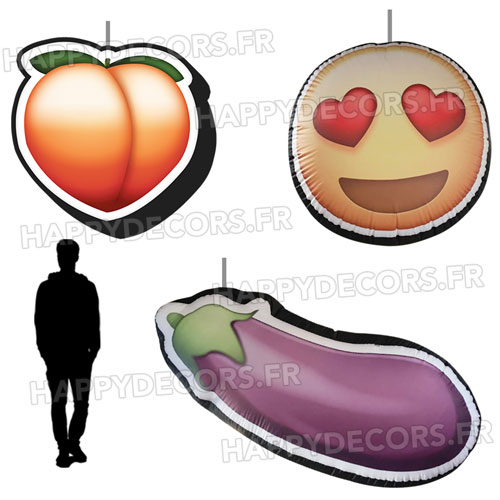
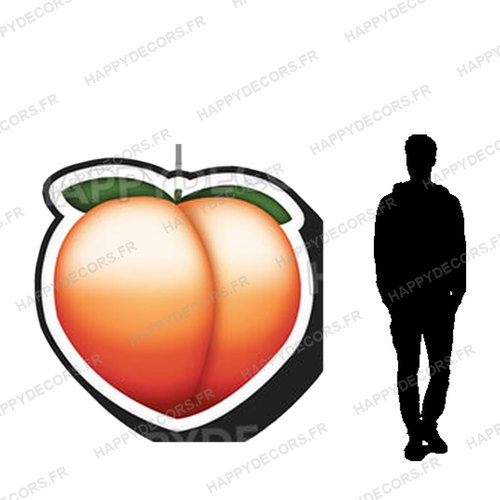
Emojis : une fiche par emoji (pêche ×2, aubergine ×2, yeux-cœur, diable), photos détourées ; univers Emojis

diff --git a/index.html b/index.html
@@ -226,7 +226,7 @@
     <button class="uni-card has-bg" data-u="amour" style="--uc:#FF4D6D; background-image:url('assets/gallery/uni/g02_coeurs.jpg')">
       <span class="uni-emoji">💗</span>
       <span class="uni-name">Mariage &amp; Saint-Valentin</span>
-      <span class="uni-count">22 décors</span>
+      <span class="uni-count">23 décors</span>
     </button>
     <button class="uni-card has-bg" data-u="paques" style="--uc:#8DBF2E; background-image:url('assets/gallery/uni/g19_paques.jpg')">
       <span class="uni-emoji">🐣</span>
@@ -236,17 +236,17 @@
     <button class="uni-card has-bg" data-u="ete" style="--uc:#F2A900; background-image:url('assets/gallery/uni/g10_tropical.jpg')">
       <span class="uni-emoji">🌴</span>
       <span class="uni-name">Été &amp; Tropical</span>
-      <span class="uni-count">31 décors</span>
+      <span class="uni-count">32 décors</span>
     </button>
     <button class="uni-card has-bg" data-u="halloween" style="--uc:#FF7A1A; background-image:url('assets/gallery/uni/g03_araignee.jpg')">
       <span class="uni-emoji">🎃</span>
       <span class="uni-name">Halloween</span>
-      <span class="uni-count">16 décors</span>
+      <span class="uni-count">17 décors</span>
     </button>
     <button class="uni-card has-bg" data-u="enfants" style="--uc:#F97316; background-image:url('assets/gallery/uni/u_enfants.jpg')">
       <span class="uni-emoji">🎈</span>
       <span class="uni-name">Anniversaire enfant</span>
-      <span class="uni-count">37 décors</span>
+      <span class="uni-count">38 décors</span>
     </button>
     <button class="uni-card has-bg" data-u="bebe" style="--uc:#60A5FA; background-image:url('assets/gallery/uni/u_bebe.jpg')">
       <span class="uni-emoji">🍼</span>
@@ -261,7 +261,7 @@
     <button class="uni-card has-bg" data-u="promo" style="--uc:#0F766E; background-image:url('assets/gallery/uni/u_promo.jpg')">
       <span class="uni-emoji">🎓</span>
       <span class="uni-name">Bal de promo &amp; Université</span>
-      <span class="uni-count">19 décors</span>
+      <span class="uni-count">22 décors</span>
     </button>
     <button class="uni-card has-bg" data-u="mer" style="--uc:#0EA5E9; background-image:url('assets/gallery/uni/g16_baleine.jpg')">
       <span class="uni-emoji">🐙</span>
@@ -306,12 +306,12 @@
     <button class="uni-card has-bg" data-u="emojis" style="--uc:#EAB308; background-image:url('assets/gallery/uni/u_emojis.jpg')">
       <span class="uni-emoji">😍</span>
       <span class="uni-name">Emojis géants</span>
-      <span class="uni-count">35 décors</span>
+      <span class="uni-count">38 décors</span>
     </button>
     <button class="uni-card has-bg" data-u="pop" style="--uc:#E11D74; background-image:url('assets/gallery/uni/g22_emojis.jpg')">
       <span class="uni-emoji">🪩</span>
       <span class="uni-name">Pop, Rétro &amp; Disco</span>
-      <span class="uni-count">27 décors</span>
+      <span class="uni-count">30 décors</span>
     </button>
     <button class="uni-card has-bg" data-u="chic" style="--uc:#334155; background-image:url('assets/gallery/uni/g11_noirblanc.jpg')">
       <span class="uni-emoji">🎭</span>
@@ -895,15 +895,48 @@
           <button class="card-add" data-add="DG_090" data-added="false">+ Ajouter à ma demande</button>
         </div>
       </article>
-      <article class="card" style="--cc:#E11D74">
-        <div class="card-img" data-id="DG_060" role="button" tabindex="0" aria-label="Agrandir Emojis">
+      <article class="card" style="--cc:#EAB308">
+        <div class="card-img" data-id="DG_060" role="button" tabindex="0" aria-label="Agrandir Emoji pêche">
           <span class="card-theme">Emojis</span>
-          <img src="assets/decors/DG_060.jpg" alt="Emojis — décor gonflable géant à louer à Paris (Emojis)" loading="lazy" width="500" height="500" />
+          <img src="assets/decors/DG_060.jpg" alt="Emoji pêche — décor gonflable géant à louer à Paris (Emojis)" loading="lazy" width="500" height="500" />
         </div>
         <div class="card-body">
-          <h3 class="card-name">Emojis</h3>
-          <span class="card-qte">5 disponibles</span><span class="card-price ">50€ <small>l'unité · 48h</small></span>
+          <h3 class="card-name">Emoji pêche</h3>
+          <span class="card-qte">2 disponibles</span><span class="card-price ">50€ <small>l'unité · 48h</small></span>
           <button class="card-add" data-add="DG_060" data-added="false">+ Ajouter à ma demande</button>
+        </div>
+      </article>
+      <article class="card" style="--cc:#EAB308">
+        <div class="card-img" data-id="DG_148" role="button" tabindex="0" aria-label="Agrandir Emoji aubergine">
+          <span class="card-theme">Emojis</span>
+          <img src="assets/decors/DG_148.jpg" alt="Emoji aubergine — décor gonflable géant à louer à Paris (Emojis)" loading="lazy" width="500" height="500" />
+        </div>
+        <div class="card-body">
+          <h3 class="card-name">Emoji aubergine</h3>
+          <span class="card-qte">2 disponibles</span><span class="card-price ">50€ <small>l'unité · 48h</small></span>
+          <button class="card-add" data-add="DG_148" data-added="false">+ Ajouter à ma demande</button>
+        </div>
+      </article>
+      <article class="card" style="--cc:#EAB308">
+        <div class="card-img" data-id="DG_149" role="button" tabindex="0" aria-label="Agrandir Emoji yeux-cœur">
+          <span class="card-theme">Emojis</span>
+          <img src="assets/decors/DG_149.jpg" alt="Emoji yeux-cœur — décor gonflable géant à louer à Paris (Emojis)" loading="lazy" width="500" height="500" />
+        </div>
+        <div class="card-body">
+          <h3 class="card-name">Emoji yeux-cœur</h3>
+          <span class="card-price ">50€ <small>/ 48h</small></span>
+          <button class="card-add" data-add="DG_149" data-added="false">+ Ajouter à ma demande</button>
+        </div>
+      </article>
+      <article class="card" style="--cc:#EAB308">
+        <div class="card-img" data-id="DG_150" role="button" tabindex="0" aria-label="Agrandir Emoji diable">
+          <span class="card-theme">Emojis</span>
+          <img src="assets/decors/DG_150.jpg" alt="Emoji diable — décor gonflable géant à louer à Paris (Emojis)" loading="lazy" width="500" height="500" />
+        </div>
+        <div class="card-body">
+          <h3 class="card-name">Emoji diable</h3>
+          <span class="card-price ">50€ <small>/ 48h</small></span>
+          <button class="card-add" data-add="DG_150" data-added="false">+ Ajouter à ma demande</button>
         </div>
       </article>
       <article class="card" style="--cc:#D946EF">

diff --git a/assets/decors.js b/assets/decors.js
@@ -107,7 +107,10 @@ const DECORS = [
   { id: "DG_062", name: "Dragon fantastique",    theme: "Animaux",      u: "contes",      price: 180, also: ["animaux", "halloween", "fantastique"] },
   { id: "DG_061", name: "Drapeaux olympiques",   theme: "Olympiques",   u: "villes",        price: 180, also: ["ete"] },
   { id: "DG_090", name: "Drapés pour bal",       theme: "Bal",          u: "chic",     price: 0, also: ["amour", "noel", "bebe", "promo"] },
-  { id: "DG_060", name: "Emojis",           theme: "Emojis",       u: "pop",          price: 50, qte: 5, also: ["enfants", "fluo", "promo", "emojis"] },
+  { id: "DG_060", name: "Emoji pêche",           theme: "Emojis",       u: "emojis",       price: 50, qte: 2, also: ["pop", "promo", "ete"] },
+  { id: "DG_148", name: "Emoji aubergine",       theme: "Emojis",       u: "emojis",       price: 50, qte: 2, also: ["pop", "promo"] },
+  { id: "DG_149", name: "Emoji yeux-cœur",       theme: "Emojis",       u: "emojis",       price: 50, also: ["pop", "amour", "enfants", "promo", "fluo"] },
+  { id: "DG_150", name: "Emoji diable",          theme: "Emojis",       u: "emojis",       price: 50, also: ["pop", "halloween", "enfants", "promo"] },
   { id: "DG_058", name: "Étoiles blanches", theme: "Plafond",      u: "ambiance",     price: 50, qte: 4, also: ["noel", "amour", "espace", "bebe", "astro", "fluo", "promo", "aerien", "emojis"] },
   { id: "DG_059", name: "Étoiles filantes",      theme: "Ambiance",     u: "ambiance",     price: 50, also: ["noel", "espace", "bebe", "astro", "promo", "aerien"] },
   { id: "DG_057", name: "Étoiles violettes",theme: "Plafond",      u: "ambiance",     price: 50, qte: 4, also: ["espace", "halloween", "astro", "fluo"] },

diff --git a/location-decors-gonflables-halloween-paris/index.html b/location-decors-gonflables-halloween-paris/index.html
@@ -148,6 +148,16 @@
               <span class="card-price ">180€ <small>/ 48h</small></span>
             </div>
           </a>
+          <a class="card" href="/#catalogue" style="--cc:#EAB308">
+            <div class="card-img">
+              <span class="card-theme">Emojis</span>
+              <img src="/assets/decors/DG_150.jpg" alt="Emoji diable — décor gonflable géant à louer à Paris (Emojis)" loading="lazy" width="500" height="500" />
+            </div>
+            <div class="card-body">
+              <h3 class="card-name">Emoji diable</h3>
+              <span class="card-price ">50€ <small>/ 48h</small></span>
+            </div>
+          </a>
           <a class="card" href="/#catalogue" style="--cc:#D946EF">
             <div class="card-img">
               <span class="card-theme">Plafond</span>

diff --git a/location-decors-gonflables-mariage-paris/index.html b/location-decors-gonflables-mariage-paris/index.html
@@ -168,6 +168,16 @@
               <span class="card-price devis">Sur devis</span>
             </div>
           </a>
+          <a class="card" href="/#catalogue" style="--cc:#EAB308">
+            <div class="card-img">
+              <span class="card-theme">Emojis</span>
+              <img src="/assets/decors/DG_149.jpg" alt="Emoji yeux-cœur — décor gonflable géant à louer à Paris (Emojis)" loading="lazy" width="500" height="500" />
+            </div>
+            <div class="card-body">
+              <h3 class="card-name">Emoji yeux-cœur</h3>
+              <span class="card-price ">50€ <small>/ 48h</small></span>
+            </div>
+          </a>
           <a class="card" href="/#catalogue" style="--cc:#D946EF">
             <div class="card-img">
               <span class="card-theme">Plafond</span>

diff --git a/assets/media.js b/assets/media.js
@@ -91,8 +91,7 @@ const MEDIA = {
   "DG_060": {
     "photos": [
       "DG_060_2.jpg"
-    ],
-    "video": "DG_060.mp4"
+    ]
   },
   "DG_035": {
     "photos": [
@@ -599,5 +598,8 @@ const MEDIA = {
   "DG_144": { "photos": ["DG_144_2.jpg"], "video": "DG_144.mp4" },
   "DG_145": { "photos": ["DG_145_2.jpg"], "video": "DG_145.mp4" },
   "DG_146": { "photos": ["DG_146_2.jpg", "DG_146_3.jpg"], "video": "DG_146.mp4" },
-  "DG_147": { "photos": ["DG_147_2.jpg"], "video": "DG_147.mp4" }
+  "DG_147": { "photos": ["DG_147_2.jpg"], "video": "DG_147.mp4" },
+  "DG_148": { "photos": ["DG_148_2.jpg"] },
+  "DG_149": { "photos": ["DG_149_2.jpg"] },
+  "DG_150": { "photos": ["DG_150_2.jpg"], "video": "DG_150.mp4" }
 };
